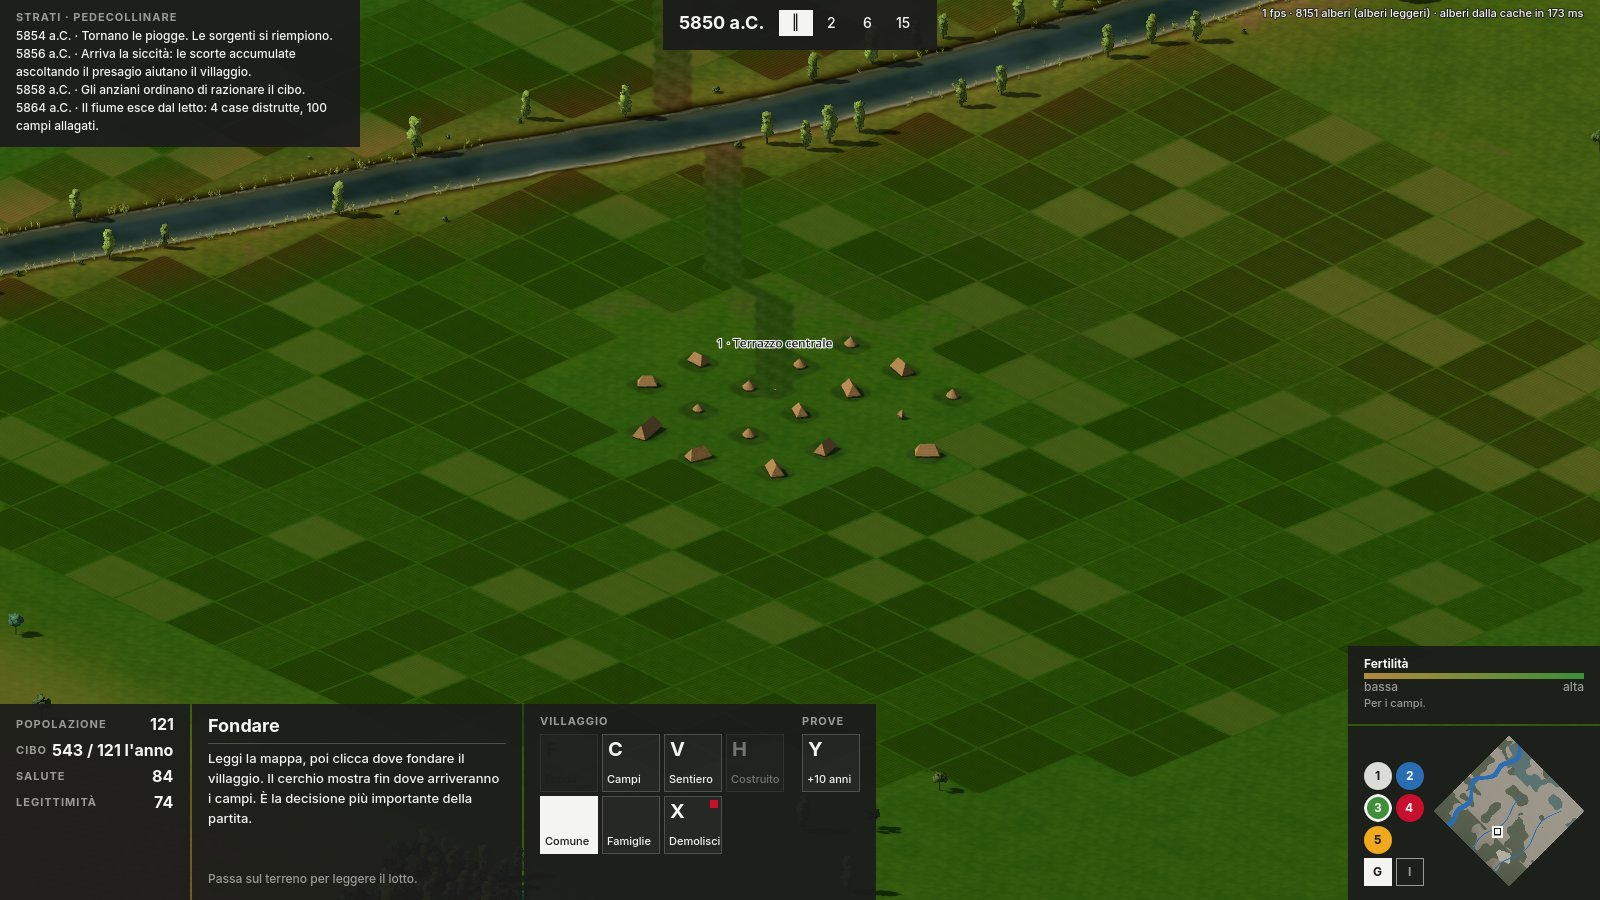
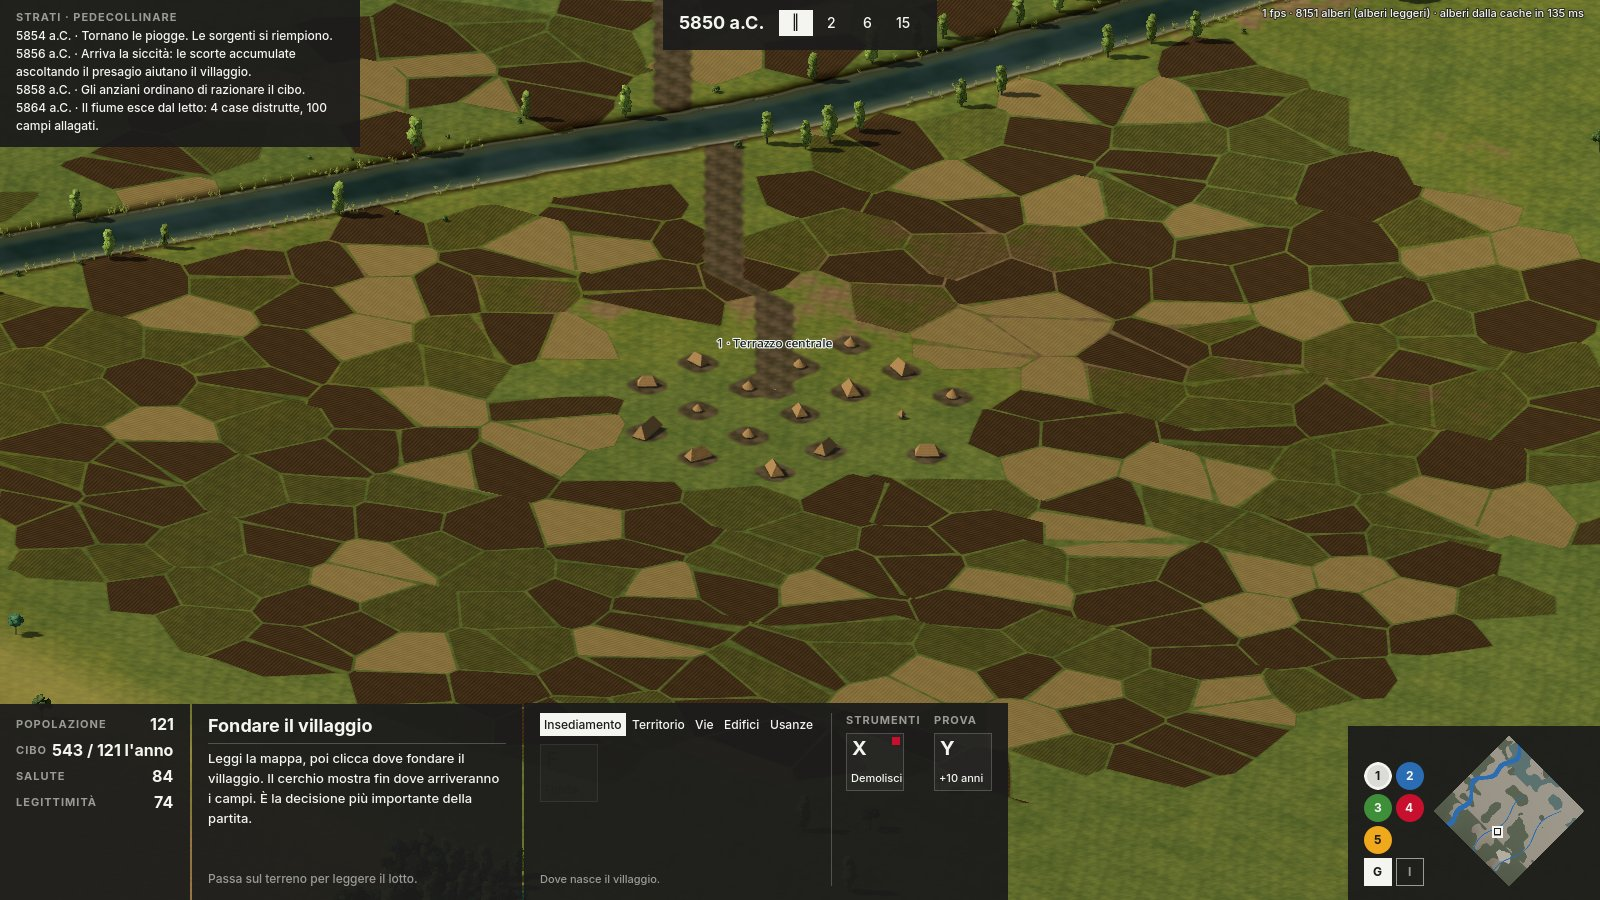
Comandi in menù logici (Insediamento, Territorio, Vie, Edifici, Usanze) con Demolisci tra gli strumenti trasversali; campi come parcelle irregolari al posto della scacchiera; diciture spiegate
Claude-Session: https://claude.ai/code/session_01N4eDGqd1MBV5LM5fjUAzdo

diff --git a/docs/diario.md b/docs/diario.md
@@ -20,6 +20,9 @@ Voci più recenti in cima.
 - **Lotto del villaggio** (Fede: procedi): nuovo script `strumenti/blender/villaggio.py` con 16 modelli nello stile verosimile in `gioco/asset/villaggio/`: case lunghe piccola, media e grande, capanne tonde in due misure, granaio su pali, palizzata (tratto e varco), luogo sacro (cerchio di pali attorno a una pietra eretta: proposta di Claude), focolare, fossa-silo, recinto per gli animali in graticcio, catasta di legna, tre rocce. Foto di controllo `test/foto_villaggio.gd` (villaggio composto a mano con palizzata, terra battuta e campi dall'uso del suolo), immagine `docs/immagini/villaggio-24-11.jpg`. Lo shader del terreno ora dà bordi netti e irregolari a campi e terra battuta (prima erano aloni sfumati). Verifica degli asset estesa alla nuova cartella.
 - **HUD** (decisioni di Fede: disposizione di Age of Empires, stile svizzero alla Noorda e Vignelli, colori solo con significato): nuova classe `Hud` (`gioco/script/hud.gd`). Fasce scure a filo dei bordi, testo bianco, scelta per inversione; mappe a destra con i bollini colorati come le linee della metro (blu acqua, verde fertilità, rosso piena e pericolo, giallo energia), sovrapposizioni e legenda; comandi a sinistra, oggi gli strumenti di prova dell'uso del suolo (abbattere, campi, costruire non invasivo e sigillato, liberare, +10 anni) con cerchio sulla mappa e raggio regolabile; lettura del lotto nella barra in basso. Regole e tasti in `docs/hud.md` (nuovo), immagine `docs/immagini/hud-24-11.jpg`, verifiche `test/verifica_hud.gd`.
 - **Correzione sul disboscamento** (chiarimento di Fede): avevo aggiunto una dinamica in più, cioè strumenti per scegliere se costruire in modo invasivo o no. Fede intendeva invece che l'invasività è una **qualità nascosta del materiale** di edifici e strade: casa lunga (legno e argilla) tolta → il bosco ricresce nelle condizioni giuste; autostrada (asfalto) → no. Ora ogni costruzione ha i suoi materiali (`UsoSuolo.COSTRUZIONI`, `MATERIALI`), `uso.costruisci(celle, tipo)` ne ricava l'effetto, la lettura del lotto mostra solo "costruito". Tolti dall'HUD gli strumenti argilla/cemento/coltiva/libera; restano per prova Abbatti e +10 anni.
+- **Menù logici** (decisione di Fede: come in Cities: Skylines e Age of Empires; Demolisci è trasversale, non una costruzione): i comandi ora stanno in schede (Insediamento: Fondare; Territorio: Campi; Vie: Sentiero; Edifici: Granaio; Usanze: raccolto in comune o alle famiglie) con i tasti della scheda aperta sotto; Demolisci a destra tra gli strumenti trasversali, +10 anni come Prova. Scegliere uno strumento ne apre la scheda e la scheda dello strumento spiega cosa fa. Nomi più chiari; tabella delle diciture in `docs/hud.md`.
+- **Macerie solo per l'abitato spontaneo** (Fede: ottima idea, ma solo per le case che nascono da sole).
+- **Niente più scacchiera di campi** (Fede: "cos'è tutto quello squadrettamento?"): erano i campi da 40 m della foto, tutti allineati alla griglia. Ora lo shader li disegna come parcelle irregolari allungate (circa 80 × 24 m) con prode erbose, e il contorno dei campi segue le parcelle.
 - **Demolisci** (decisione di Fede, come in Cities: Skylines): al posto di "Abbatti", uno strumento unico (X, segno rosso perché irreversibile) che toglie nel cerchio alberi, case, campi, sentieri e granaio; non agisce su fiumi e paludi, che si governeranno con dighe, canali, deviazioni e bonifiche coerenti con l'epoca. Sul lotto di una casa demolita non ne rinasce una per 20 anni. Decisione scritta anche in `docs/pilastri-e-decisioni.md`, insieme a quella sui materiali.
 - **Carattere Inter** nell'HUD (decisione di Fede: carattere con licenza SIL Open Font License, rispettandone le regole): file e licenza in `gioco/asset/caratteri/inter/` (con `LEGGIMI.md` su cosa chiede la licenza), nuovo `docs/licenze.md` con tutte le licenze di terze parti, regola aggiornata in `CLAUDE.md`. Verificato che il carattere di base di Godot 4.7.2 è Open Sans SemiBold, con la stessa licenza.
 - **Minimappa e mappe tematiche più piccole** (Fede: cliccabili ma non importanti, come i tasti attorno alla minimappa di Age of Empires IV): minimappa di 150 px, bollini tondi delle mappe e quadratini delle sovrapposizioni accanto, legenda sottile solo quando serve.
@@ -29,6 +32,7 @@ Voci più recenti in cima.
 **Decisioni**
 - Fede: il caricamento degli alberi va reso più rapido, ottimizzando o precaricando. Scelta di Claude: entrambe le cose, cioè calcolo ottimizzato e parallelo la prima volta, cache su disco precaricata all'avvio dalle volte successive.
 - Fede: le prove sui PC (tempi degli alberi, fotogrammi al secondo) vanno in coda; il PC dedicato è pronto.
+- Fede: le case demolite lasciano macerie solo nell'abitato spontaneo. Comandi in menù logici come in Cities: Skylines e Age of Empires; Demolisci è uno strumento trasversale, non una costruzione.
 - Fede: strumento Demolisci come in Cities: Skylines per tutti gli elementi demolibili; fiumi e paludi si governano con altri strumenti (dighe, canali, deviazioni, bonifiche), ogni lavorazione coerente con l'epoca.
 - Fede: usare il carattere Inter (licenza SIL Open Font License) rispettandone le regole.
 - Fede: rimandati la taratura di dettaglio e densità degli alberi e il prato da vicino in 3D.
@@ -52,7 +56,7 @@ Voci più recenti in cima.
   - effetti del disboscamento nella simulazione (erosione e frane sui pendii, piene più rapide, meno selvaggina; legname come risorsa);
   - mulini e dighe come costruzioni che usano la corrente e i dislivelli calcolati (dall'epoca in cui sono coerenti);
   - livelli dell'acqua che salgono con le piene nella grafica; cascate (servono salti nel letto dei torrenti);
-  - campi meno regolari; varianti dei modelli del villaggio;
+  - varianti dei modelli del villaggio;
   - salvataggio della partita, con l'uso del suolo;
   - mappa tematica della memoria del suolo (ex boschi, aree sigillate).
 

diff --git a/docs/hud.md b/docs/hud.md
@@ -30,11 +30,27 @@ Il campo di gioco resta libero: l'interfaccia sta in una fascia in basso e in du
 - **In alto a destra:** le prestazioni (fotogrammi al secondo, alberi, cache), piccole, senza fondo.
 - **In basso a sinistra:** gli indicatori (popolazione, cibo, salute, legittimità), come le risorse; il valore diventa rosso quando è in pericolo.
 - **Accanto, la scheda dello strumento scelto** (come la scheda dell'unità selezionata): nome, messaggio dell'ultima azione, lettura del lotto sotto il puntatore.
-- **In basso al centro, la griglia dei comandi:** tasti quadrati con la lettera del tasto in grande e il nome sotto, raggruppati (Villaggio, con Demolisci; Prove: +10 anni, per vedere la ricrescita del bosco). Un comando può essere uno strumento (resta scelto, si usa cliccando sulla mappa) o un'azione immediata. Il segno rosso nell'angolo vuol dire azione irreversibile.
+- **In basso al centro, i comandi su due livelli** (decisione di Fede: menù logici come in Cities: Skylines e Age of Empires): in alto le **schede dei menù** (Insediamento, Territorio, Vie, Edifici, Usanze), sotto i **tasti** della scheda aperta (quadrati, lettera del tasto in grande e nome sotto) e una riga che dice a cosa serve il menù. Scegliere uno strumento, anche da tastiera, apre la sua scheda. A destra, separati da una riga, gli **strumenti trasversali** (Demolisci), che valgono su tutto e non sono costruzioni, e la **Prova** (+10 anni, solo per vedere la ricrescita del bosco). Un comando può essere uno strumento (resta scelto, si usa cliccando sulla mappa) o un'azione immediata. Il segno rosso nell'angolo vuol dire azione irreversibile. Scelto uno strumento, la scheda a sinistra ne mostra il nome e cosa fa.
 - **In basso a destra, piccoli** (Fede: cliccabili ma non importanti, come i tasti attorno alla minimappa di Age of Empires IV): la minimappa (150 px) ruotata come la vista, con il riquadro di ciò che inquadra la camera e il centro del villaggio (un clic o un trascinamento spostano la camera); accanto, i bollini tondi delle cinque mappe tematiche (numero e colore, nome nel suggerimento) e i quadratini delle sovrapposizioni (G lotti, I isoipse). La mappa scelta ha un anello bianco. Sopra, solo quando è attiva una mappa tematica, una legenda sottile.
 - **Avvisi** (siccità, carestie gravi) sopra la minimappa, a destra, con un segno rosso.
 - **Scelte** (presagi, momenti decisivi, eventi): finestra al centro; il tempo si ferma finché non si sceglie.
 - **Strumento sulla mappa:** un cerchio sottile bianco (rosso se l'azione è irreversibile) segue il puntatore; per Fondare mostra fin dove arriveranno i campi.
+
+## Diciture
+| Dicitura | Dove | Significato |
+|---|---|---|
+| Popolazione | indicatori | abitanti del villaggio |
+| Cibo 543 / 121 l'anno | indicatori | scorte di cibo / quanto ne consuma il villaggio in un anno (rosso se le scorte sono sotto il 30% del consumo) |
+| Salute | indicatori | da 0 a 100: acqua, aria (paludi), affollamento, fame |
+| Legittimità | indicatori | da 0 a 100: quanto il villaggio riconosce l'autorità di chi governa (nella prima epoca gli anziani); sotto 5 per quattro anni il villaggio si divide |
+| ‖ 2 6 15 | in alto, accanto all'anno | pausa, oppure 2, 6, 15 anni al secondo |
+| Insediamento, Territorio, Vie, Edifici, Usanze | schede dei comandi | menù logici: dove nasce il villaggio; a cosa si destina la terra; come ci si muove; costruzioni comuni; regole del villaggio |
+| In comune / Famiglie | Usanze | il raccolto si divide tra tutti (più legittimità) o ogni famiglia tiene il suo (più raccolto, meno legittimità) |
+| Demolisci | Strumenti | toglie ciò che si può demolire nel cerchio; non agisce su fiumi e paludi |
+| +10 anni | Prova | fa passare dieci anni subito, solo per provare la ricrescita del bosco |
+| 1–5 | bollini accanto alla minimappa | mappe tematiche: terreno, acqua, fertilità, rischio di piena, energia dell'acqua |
+| G, I | quadratini accanto alla minimappa | griglia dei lotti da 20 m, isoipse ogni 25 m |
+| fps, alberi (livello), cache | in alto a destra | prestazioni, per le prove sui PC |
 
 ## Tasti
 1–5 mappe · G griglia · I isoipse · F fondare · C campi · V sentiero · H granaio · Spazio pausa o riprendi · + e − velocità del tempo · X demolisci · Y +10 anni · [ e ] raggio dello strumento · Esc nessuno strumento · Q E ruota · rotella zoom · tasto destro o WASD sposta · Home torna al sito.

diff --git a/docs/prototipo0-godot.md b/docs/prototipo0-godot.md
@@ -4,6 +4,7 @@
 
 ## Com'è fatto
 - **Simulazione** (`gioco/script/sim_villaggio.gd`, classe `SimVillaggio`): le regole del Prototipo 0 web (`prototipi/prototipo0/index.html`), separate dalla grafica e verificabili senza schermo (`test/verifica_villaggio.gd`). Non sa nulla di modelli o shader: tiene lo stato (centro, case, campi, sentieri, granaio, rovine, indicatori, cronaca) e le **decisioni in attesa**, che fermano il tempo.
+- **Campi disegnati come parcelle irregolari** (24/11/2026, Fede aveva notato lo squadrettamento): la simulazione ragiona a pixel da 40 m, ma lo shader del terreno disegna strisce irregolari di circa 80 × 24 m (celle di Voronoi), ognuna arata, seminata o a stoppie, con prode erbose; anche il contorno dei campi segue le parcelle.
 - **Disegno** (`gioco/script/vista_villaggio.gd`, classe `VistaVillaggio`): confronta lo stato con ciò che ha già disegnato e aggiorna solo le differenze. Case e granaio con i modelli del lotto del villaggio (tipi misti: case lunghe di tre misure e capanne tonde, scelti e ruotati in modo fisso per lotto); campi e sentieri attraverso l'**uso del suolo** (campi = suolo coltivato, che toglie gli alberi; sentieri e cortili = terra battuta); rovine con qualche sasso.
 - **Partita** (`gioco/script/partita.gd`, classe `Partita`): collega simulazione, disegno, uso del suolo e HUD; tempo continuo con pausa e tre velocità (2, 6, 15 anni al secondo); ogni anno della simulazione fa passare anche un anno all'uso del suolo, quindi un campo abbandonato su un ex bosco ricresce mentre si gioca.
 
@@ -21,7 +22,7 @@ Il prototipo ragionava a celle da 160 m. Qui:
 - **Sentiero:** un clic prolunga la rete in linea retta dal punto più vicino (centro o sentiero); non attraversa il fiume né la palude.
 - **Granaio:** 30 di cibo, vicino al centro; le scorte si conservano meglio.
 - **Usanza sul raccolto:** in comune (più legittimità) o per famiglia (più raccolto).
-- **Demolisci** (X, decisione di Fede): toglie nel cerchio alberi (legname), case, campi, sentieri e granaio; il focolare al centro resta. Sul lotto di una casa demolita non rinasce una casa per 20 anni (macerie). Fiumi e paludi non si demoliscono.
+- **Demolisci** (X, decisione di Fede): toglie nel cerchio alberi (legname), case, campi, sentieri e granaio; il focolare al centro resta. Sul lotto di una casa demolita non rinasce una casa per 20 anni (macerie): Fede ha approvato la regola e ha precisato che vale **solo per l'abitato spontaneo**; per gli edifici voluti dal giocatore (come il granaio) non c'è attesa. Fiumi e paludi non si demoliscono.
 - **Eventi e presagi:** piene dal rischio della mappa, siccità con presagio vero (le sorgenti calano), cometa come presagio falso, primo cattivo raccolto, affollamento (allargarsi o villaggio figlio), crisi di legittimità, abbandono (le rovine restano e si può rifondare), fine dopo 500 anni con il riepilogo.
 
 ## Verifiche
@@ -34,6 +35,5 @@ Con il giocatore automatico tutti e sei i siti reggono 500 anni; le popolazioni 
 
 ## Da fare
 - Prove di Fede e taratura.
-- Campi meno regolari (oggi sono quadrati da 40 m, ognuno con il suo verso dei solchi e il suo tono).
 - Livelli dell'acqua che salgono con le piene, nella grafica.
 - Salvataggio della partita (con l'uso del suolo).

diff --git a/docs/resa-grafica.md b/docs/resa-grafica.md
@@ -92,7 +92,7 @@ Modelli: `strumenti/blender/prova_stile_verosimile.py` (funzione `albero`) e `st
   - **Costruzioni invasive** (cemento, asfalto, fondamenta, fognature): l'area non accoglie più alberi, nemmeno liberandola, ma la memoria del bosco resta.
   - **L'invasività è una qualità nascosta dei materiali** (chiarimento di Fede, 24/11/2026), non una scelta del giocatore né una dinamica in più: ogni costruzione ha i suoi materiali (`UsoSuolo.COSTRUZIONI` e `MATERIALI`) e da quelli dipende cosa succede al suolo. Una casa lunga (legno, argilla, paglia) tolta lascia ricrescere il bosco nelle condizioni giuste; un'autostrada (asfalto, fondamenta) no. Nella lettura del lotto si vede solo "costruito": la differenza si scopre da ciò che succede dopo. Si usa `uso.costruisci(celle, "casa_lunga")`. L'elenco dei materiali invasivi è una proposta di Claude.
   - **Effetti:** quelli naturali, come i vantaggi (legname, terreno libero). Entreranno nella simulazione con il gioco (proposte di Claude da discutere: erosione e frane sui pendii, piene più rapide, meno selvaggina).
-  - **Disegno:** la vista toglie o rimpicciolisce gli alberi dei blocchi toccati (filtro sui dati in cache, che restano lo strato di partenza) e li ridisegna senza buchi; lo shader del terreno legge una texture dell'uso del suolo (bosco presente, terra nuda o battuta, campo con i solchi, superficie sigillata). Immagine: `docs/immagini/uso-suolo-24-11.jpg` (taglio, campo, capanna, superficie sigillata, area in ricrescita da 25 anni). Verifiche: `test/verifica_uso_suolo.gd`; foto: `test/foto_uso_suolo.gd`.
+  - **Disegno:** la vista toglie o rimpicciolisce gli alberi dei blocchi toccati (filtro sui dati in cache, che restano lo strato di partenza) e li ridisegna senza buchi; lo shader del terreno legge una texture dell'uso del suolo (bosco presente, terra nuda o battuta, campo con i solchi, superficie sigillata). Immagine: `docs/immagini/uso-suolo-24-11.jpg` (taglio, campo, capanna, superficie sigillata, area in ricrescita da 25 anni). I campi si disegnano come parcelle irregolari allungate (circa 80 × 24 m, celle di Voronoi) con prode erbose: niente scacchiera della griglia; una parcella è campo se lo è il suolo nel suo centro. Verifiche: `test/verifica_uso_suolo.gd`; foto: `test/foto_uso_suolo.gd`.
   - Tagliare si fa con lo strumento **Demolisci** (X) della partita, che non tocca acqua e paludi; per prova resta +10 anni (Y). Le costruzioni vengono dalla partita (case, granaio, focolare, sentieri).
   - Da fare: salvare l'uso del suolo con la partita; una mappa tematica della memoria del suolo.
 
